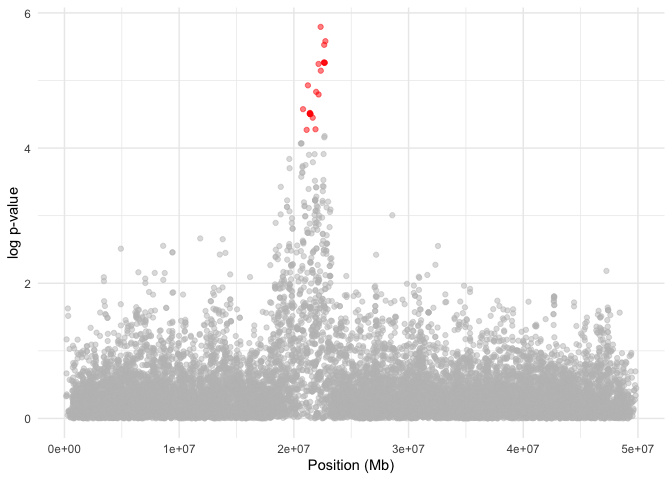
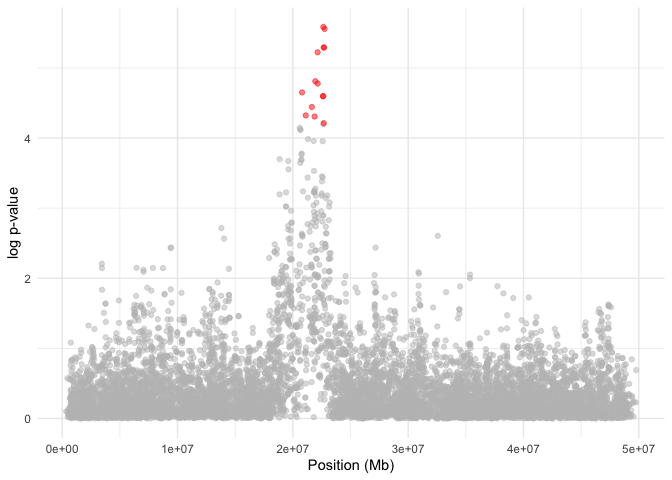
update practica3

diff --git a/practica3/practica3.md b/practica3/practica3.md
@@ -2,7 +2,7 @@ Identificación de señales de selección positiva y análisis de
 enriquecimiento funcional
 ================
 Lorena Lorenzo Fernández
-2024-05-09
+2026-03-26
 
 # Identificación de señales de selección positiva
 
@@ -51,10 +51,10 @@ grep -m1 "#CHROM" $vcf_file | cut -f10- | tr "\t" "\n" | head -100 | tail -50 > 
 
 # divide vcf per population
 vcftools --vcf $vcf_file --keep data/data_selection.pop1.txt \
-    --recode --recode-INFO-all --out data/data_selection.pop1
+    --maf 0.001 --recode --recode-INFO-all --out data/data_selection.pop1
 
 vcftools --vcf $vcf_file --keep data/data_selection.pop2.txt \
-    --recode --recode-INFO-all --out data/data_selection.pop2
+    --maf 0.001 --recode --recode-INFO-all --out data/data_selection.pop2
 ```
 
 Ahora, calcularemos los valores de pi, Tajima’s D y Fst. Los dos
@@ -177,12 +177,12 @@ calcular iHS en cada una de las poblaciones.
 scan_pop1 <- scan_hh(vcf_pop1)
 
 #Calculate iHS values 
-ihs_pop1 <- ihh2ihs(scan_pop1, freqbin=0.05 , min_maf=0)
+ihs_pop1 <- ihh2ihs(scan_pop1, freqbin=0.05)
 ```
 
-    ## Discard focal markers with Minor Allele Frequency equal to or below 0 .
-    ## 6863 markers discarded.
-    ## 18521 markers remaining.
+    ## Discard focal markers with Minor Allele Frequency equal to or below 0.05 .
+    ## 8721 markers discarded.
+    ## 9800 markers remaining.
 
 ``` r
 #extract candidate SNPs 
@@ -206,12 +206,12 @@ print(pop1)
 scan_pop2 <- scan_hh(vcf_pop2)
 
 #Calculate iHS values
-ihs_pop2 <- ihh2ihs(scan_pop2, freqbin=0.05 , min_maf=0)
+ihs_pop2 <- ihh2ihs(scan_pop2, freqbin=0.05)
 ```
 
-    ## Discard focal markers with Minor Allele Frequency equal to or below 0 .
-    ## 6001 markers discarded.
-    ## 19383 markers remaining.
+    ## Discard focal markers with Minor Allele Frequency equal to or below 0.05 .
+    ## 8933 markers discarded.
+    ## 10450 markers remaining.
 
 ``` r
 #extract candidate SNPs
@@ -232,12 +232,13 @@ print(pop2)
 
 # Enriquecimiento funcional
 
-Si en lugar de tener una señal de selección particular tenemos muchos
-posibles outliers para nuestros análisis de selección a lo largo del
-genoma, estaremos buscando eventos de selección poligénica.
+Si en lugar de tener una única señal de selección a lo largo del todo el
+genoma tenemos varios outliers de selección (picos), estaremos viendo
+señales múltiples de selección monogénica y/o eventos de selección
+poligénica.
 
 Por tanto, como comentamos ayer en la teoría, al cruzar nuestros
-outiliers con la anotación del genoma de referencia que estemos usando,
+outliers con la anotación del genoma de referencia que estemos usando,
 tendremos una **lista de genes candidatos.** Con esto, podemos testar si
 en nuestra lista de genes hay **funciones representadas por exceso o por
 defecto** a lo que cabría esperar en una muestra aleatoria de genes.
@@ -246,7 +247,7 @@ Para este ejercicio, supondremos que tenemos una lista de genes
 candidatos en lince ibérico mapeado al genoma del gato. Lo primero que
 tenemos que hacer es cargar desde ensembl nuestra anotación (Felis
 Catus) y extraer la información que vamos a necesitar (en nuestro caso
-el ensembl ID, gene name y GO ID.
+el ensembl ID, gene name y GO ID).
 
 *Tened en cuenta que en los ordenadores del LAST, por la versión de R
 que manejan, no permiten usar el paquete bioMart para acceder a la base
@@ -305,20 +306,21 @@ over_test <- runTest(godata, statistic = "fisher")
 # Comment: fisher test is based on gene counts while Kolmogorov-Smirnov is based on gene scores, which better fits transcriptomics studies
 
 # represent the results of the test in a table
-result_table <- GenTable(godata, Fisher=over_test, topNodes=over_test@geneData[2], numChar=1000) %>% 
+result_table <- GenTable(godata, Fisher=over_test, numChar=1000) %>% 
         as_tibble() %>% 
-        mutate(p.adj = round(p.adjust(as.numeric(gsub("<", "", Fisher)), method="BH"), 4), ontology= "BP") %>% 
-        filter(p.adj<0.05) 
+        #mutate(p.adj = round(p.adjust(as.numeric(gsub("<", "", Fisher)), method="BH"), 4), ontology= "BP")
+        filter(Fisher<0.05)                
 ```
 
-| GO.ID        | Term                                             | Annotated | Significant | Expected | Fisher |  p.adj | ontology |
-|:-------------|:-------------------------------------------------|----------:|------------:|---------:|:-------|-------:|:---------|
-| <GO:0051607> | defense response to virus                        |       211 |          11 |     1.47 | 1e-06  | 0.0001 | BP       |
-| <GO:0080111> | DNA demethylation                                |        21 |           3 |     0.15 | 0.0004 | 0.0186 | BP       |
-| <GO:0045071> | negative regulation of viral genome replication  |        34 |           3 |     0.24 | 0.0017 | 0.0465 | BP       |
-| <GO:0097152> | mesenchymal cell apoptotic process               |        10 |           2 |     0.07 | 0.0021 | 0.0465 | BP       |
-| <GO:0060337> | type I interferon-mediated signaling pathway     |        47 |           3 |     0.33 | 0.0030 | 0.0465 | BP       |
-| <GO:0006177> | GMP biosynthetic process                         |        12 |           2 |     0.08 | 0.0030 | 0.0465 | BP       |
-| <GO:0070131> | positive regulation of mitochondrial translation |        14 |           2 |     0.10 | 0.0041 | 0.0496 | BP       |
-| <GO:0030202> | heparin metabolic process                        |        15 |           2 |     0.10 | 0.0048 | 0.0496 | BP       |
-| <GO:0035458> | cellular response to interferon-beta             |        15 |           2 |     0.10 | 0.0048 | 0.0496 | BP       |
+| GO.ID | Term | Annotated | Significant | Expected | Fisher |
+|:---|:---|---:|---:|---:|:---|
+| <GO:0051607> | defense response to virus | 227 | 9 | 1.50 | 0.00066 |
+| <GO:0006177> | GMP biosynthetic process | 12 | 2 | 0.08 | 0.00273 |
+| <GO:0030202> | heparin metabolic process | 15 | 2 | 0.10 | 0.00429 |
+| <GO:0060337> | type I interferon-mediated signaling pathway | 54 | 3 | 0.36 | 0.00747 |
+| <GO:0006357> | regulation of transcription by RNA polymerase II | 1603 | 19 | 10.60 | 0.00836 |
+| <GO:2000036> | regulation of stem cell population maintenance | 24 | 2 | 0.16 | 0.01086 |
+| <GO:0006024> | glycosaminoglycan biosynthetic process | 28 | 2 | 0.19 | 0.01462 |
+| <GO:0045071> | negative regulation of viral genome replication | 30 | 2 | 0.20 | 0.01668 |
+| <GO:0045815> | transcription initiation-coupled chromatin remodeling | 38 | 2 | 0.25 | 0.02606 |
+| <GO:1903320> | regulation of protein modification by small protein conjugation or removal | 152 | 3 | 1.01 | 0.03225 |
